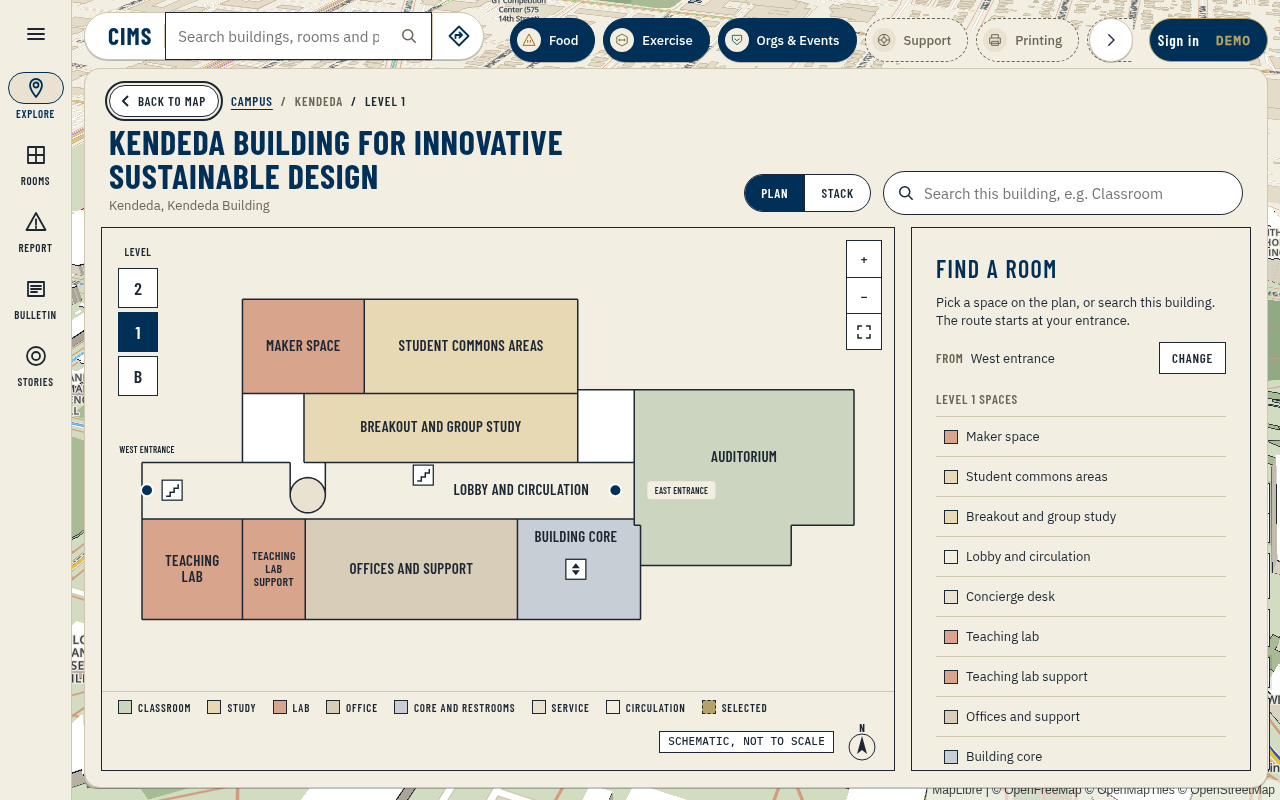
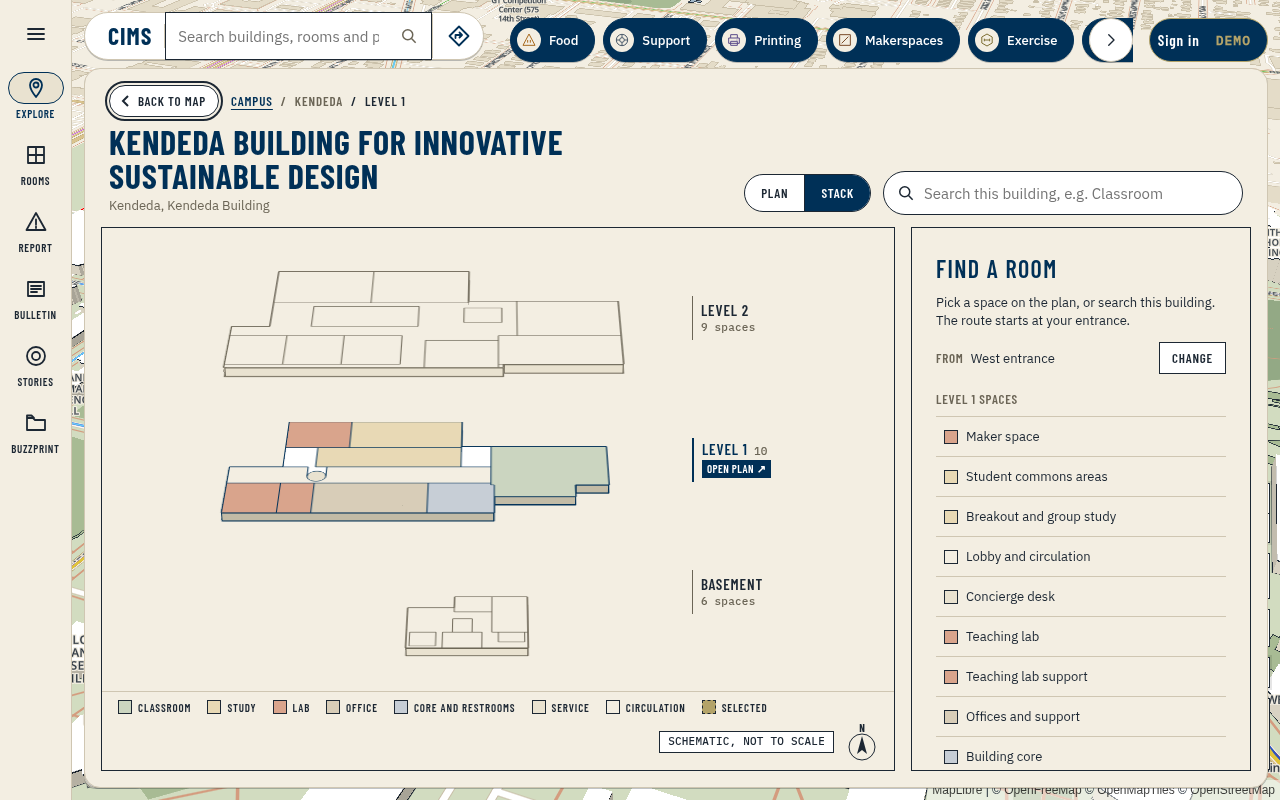
feat(indoor): stack opens first, thicker slabs, frontal view and an exploding entrance (Codex)

diff --git a/src/indoor/StackView.tsx b/src/indoor/StackView.tsx
@@ -1,6 +1,6 @@
-/** @file Exploded "stack" view (concept B): every drawn level as a plate in one CSS 3D scene, with the route and its vertical links. */
-import { useLayoutEffect, useRef, useState } from "react";
-import { drawnBounds, levelRank, planWalls, roomCategory } from "../lib/indoorPlan";
+/** @file Frontal exploded floor slabs with measured level labels, room selection and vertical route links. */
+import { useLayoutEffect, useRef, useState, type CSSProperties, type MouseEvent } from "react";
+import { drawnBounds, levelRank, planWalls, roomCategory, spaceDisplayName } from "../lib/indoorPlan";
 import type { IndoorRoute } from "./route";
 import type { IndoorBuilding, IndoorLevel, IndoorSpace } from "./types";
 import "./StackView.css";
@@ -18,43 +18,53 @@ function outlineVertices(d: string): Point[] {
   return out;
 }
 
-
 /** Shows the Plan | Stack toggle in the building header. Set to false to hide the stack view for a demo. */
 export const STACK_VIEW_ENABLED = true;
 
-/** Every available level as a plate in one CSS 3D scene; click a plate to make it the active level. */
-export default function StackView({ building, levels, activeId, selected, route, onLevel, roomCount }: {
+/** Exploded solid floor slabs; select levels or rooms and open the active level's detailed plan. */
+export default function StackView({ building, levels, activeId, selected, route, onLevel, onOpenPlan, onSelect, roomCount }: {
   building: IndoorBuilding; levels: DrawnLevel[]; activeId?: string; selected?: IndoorSpace; route?: IndoorRoute;
-  activeStep: number | null; onLevel: (id: string) => void; roomCount: (level: IndoorLevel) => number;
+  activeStep: number | null; onLevel: (id: string) => void; onOpenPlan: () => void;
+  onSelect: (space: IndoorSpace) => void; roomCount: (level: IndoorLevel) => number;
 }) {
   const stage = useRef<HTMLDivElement>(null);
   const [size, setSize] = useState({ w: 0, h: 0 });
   const [anchors, setAnchors] = useState<Record<string, Point>>({});
-  const ordered = [...levels].sort((a, b) => levelRank(a.id) - levelRank(b.id)); // bottom plate first
+  const ordered = [...levels].sort((a, b) => levelRank(a.id) - levelRank(b.id));
   const frame = drawnBounds(levels) ?? { x: 0, y: 0, w: 100, h: 100 };
   const pad = Math.max(frame.w, frame.h) * 0.04;
   const box = { x: frame.x - pad, y: frame.y - pad, w: frame.w + pad * 2, h: frame.h + pad * 2 };
-  // Plate size and spacing from the stage: wide buildings get wide plates, tall ones narrower.
+  // Turn portrait schematics within Stack only: long edges face the viewer, with no diagonal scene rotation.
+  const turned = box.h > box.w;
+  const drawingW = turned ? box.h : box.w;
+  const drawingH = turned ? box.w : box.h;
+  const orient = (p: Point): Point => turned ? { x: box.h - (p.y - box.y), y: p.x - box.x } : { x: p.x - box.x, y: p.y - box.y };
+  const drawingTransform = `${turned ? `translate(${box.h} 0) rotate(90) ` : ""}translate(${-box.x} ${-box.y})`;
+  const narrow = size.w < 500;
+  const labelW = narrow ? 94 : 122;
+  const margin = narrow ? 12 : 28;
   const n = ordered.length;
-  const plateW = Math.max(120, Math.min(size.w * 0.52, size.w - 170, (size.h * 0.95) * box.w / box.h / Math.max(1, 0.35 * n), 620));
-  const plateH = plateW * box.h / box.w;
-  const gap = Math.min(150, Math.max(50, (size.h * 0.62) / Math.max(1, n - 1)), plateH * 0.9);
+  // Reserve the aligned label column and fit the entire projected stack, including perspective and slab depth.
+  const maxGap = narrow ? 100 : n <= 3 ? 210 : 145;
+  const shelfHeight = Math.min((size.h * 0.8 - 14) / Math.max(1, n), maxGap * 0.8);
+  const plateW = Math.max(1, Math.min(760, shelfHeight / 0.53 * drawingW / drawingH, (size.w - labelW - margin * 3) * 0.92));
+  const plateH = plateW * drawingH / drawingW;
+  const gap = Math.max(1, Math.min(maxGap, (size.h * 0.88 - plateH * 0.53 - 14) / (Math.max(1, n - 1) * 0.85)));
   const z = (index: number) => (index - (n - 1) / 2) * gap;
+  const centerX = margin + (size.w - labelW - margin * 3) / 2;
+  const labelX = Math.min(size.w - labelW - margin, centerX + plateW * 0.58 + margin);
+  const thickness = narrow ? 5 : 10;
 
-  // Dashed guides only where an outline corner on one plate sits over a corner on the plate below.
-  const tolerance = Math.max(frame.w, frame.h) * 0.03;
+  // Guides connect only coincident outline corners, never an inferred building bounding box.
   const guides: { key: string; from: string; to: string }[] = [];
   ordered.slice(1).forEach((upper, k) => {
     const lower = ordered[k];
     const below = outlineVertices(lower.outline);
-    const used = new Set<number>();
     outlineVertices(upper.outline).forEach((v, i) => {
-      let best = -1, bestD = tolerance;
-      below.forEach((w, j) => { const d = Math.hypot(v.x - w.x, v.y - w.y); if (!used.has(j) && d <= bestD) { best = j; bestD = d; } });
-      if (best >= 0) { used.add(best); guides.push({ key: `${upper.id}-${i}`, from: `v:${lower.id}:${best}`, to: `v:${upper.id}:${i}` }); }
+      const match = below.findIndex((w) => Math.hypot(v.x - w.x, v.y - w.y) < 0.01);
+      if (match >= 0) guides.push({ key: `${upper.id}-${i}`, from: `v:${lower.id}:${match}`, to: `v:${upper.id}:${i}` });
     });
   });
-  // Where the route changes level: the node it leaves and the node it reaches, from the graph.
   const links: { from: string; to: string }[] = [];
   route?.nodes.forEach((node, i) => {
     const before = route.nodes[i - 1];
@@ -68,8 +78,8 @@ export default function StackView({ building, levels, activeId, selected, route,
     observer.observe(element);
     return () => observer.disconnect();
   }, []);
-  // Labels and vertical links are flat: read where the 3D anchors land on screen after layout.
-  const routeKey = route?.nodes.map((node) => node.id).join("|") ?? "";
+  // Anchors live on stationary final-position wrappers; only the slab inside animates, so links never measure a mid-animation position.
+  const routeKey = route?.nodes.map((node) => `${node.level}:${node.id}`).join("|") ?? "";
   useLayoutEffect(() => {
     const element = stage.current;
     if (!element) return;
@@ -82,54 +92,71 @@ export default function StackView({ building, levels, activeId, selected, route,
     setAnchors(next);
   }, [size.w, size.h, routeKey, levels]);
 
-  // Labels sit in one column just right of the whole stack, each at its plate's height.
-  const cornerXs = Object.entries(anchors).filter(([key]) => key.startsWith("corner:")).map(([, p]) => p.x);
-  const labelX = Math.min(Math.max(0, size.w - 130), (cornerXs.length ? Math.max(...cornerXs) : size.w / 2) + 20);
-  const pct = (p: Point) => ({ left: `${((p.x - box.x) / box.w) * 100}%`, top: `${((p.y - box.y) / box.h) * 100}%` });
+  const pct = (p: Point) => { const q = orient(p); return { left: `${q.x / drawingW * 100}%`, top: `${q.y / drawingH * 100}%` }; };
 
-  return <div ref={stage} className="stack" role="group" aria-label={`${building.title}, all levels stacked`}>
-    <div className="stack__scene" style={{ width: plateW, height: plateH }}>
+  return <div ref={stage} className="stack" data-compact={size.h < 260 || undefined} role="group" aria-label={`${building.title}, all levels stacked`}>
+    {size.w > 0 && <div className="stack__scene" style={{ width: plateW, height: plateH, left: centerX }}>
       {ordered.map((level, index) => {
         const active = level.id === activeId;
         const legs = route?.legs.filter((leg) => leg.level === level.id) ?? [];
         const routeNodes = route?.nodes.filter((node) => node.level === level.id) ?? [];
-        return <div key={level.id} className="stack__plate" data-active={active || undefined} style={{ transform: `translateZ(${z(index)}px)` }}
+        return <div key={level.id} className="stack__plate" data-active={active || undefined}
+          style={{ transform: `translateZ(${z(index)}px)`, "--plate-z": `${z(index)}px`, "--slab-depth": `${thickness}px`, "--explode-delay": `${index * 40}ms` } as CSSProperties}
           role="button" tabIndex={0} aria-pressed={active} aria-label={`${level.name}, ${roomCount(level)} spaces${legs.length ? ", route on this level" : ""}`}
-          onClick={() => onLevel(level.id)} onKeyDown={(event) => { if (event.key === "Enter" || event.key === " ") { event.preventDefault(); onLevel(level.id); } }}>
-          <svg viewBox={`${box.x} ${box.y} ${box.w} ${box.h}`} preserveAspectRatio="none" aria-hidden="true">
-            <path d={level.outline} className="stack__floor" />
-            {level.spaces.map((space) => {
-              const shape = space.shape;
-              const cls = `cims-room cims-room--${roomCategory(space.type)}${selected?.id === space.id ? " cims-room--selected" : ""}`;
-              return shape.kind === "rect" ? <rect key={space.id} className={cls} x={shape.x} y={shape.y} width={shape.w} height={shape.h} />
-                : shape.kind === "circle" ? <circle key={space.id} className={cls} cx={shape.cx} cy={shape.cy} r={shape.r} />
-                : <polygon key={space.id} className={cls} points={shape.points} />;
+          onClick={() => onLevel(level.id)} onKeyDown={(event) => { if (event.target === event.currentTarget && (event.key === "Enter" || event.key === " ")) { event.preventDefault(); onLevel(level.id); } }}>
+          <div className="stack__slab">
+            <svg className="stack__underside" viewBox={`0 0 ${drawingW} ${drawingH}`} preserveAspectRatio="none" aria-hidden="true">
+              <g transform={drawingTransform}><path d={level.outline} /></g>
+            </svg>
+            {(level.outline.match(/M[^Z]+Z/gi) ?? []).flatMap((ring, ringIndex) => {
+              const vertices = outlineVertices(ring).map(orient);
+              return vertices.map((v, i) => {
+                const next = vertices[(i + 1) % vertices.length];
+                const dx = (next.x - v.x) / drawingW * plateW;
+                const dy = (next.y - v.y) / drawingH * plateH;
+                return <span key={`${ringIndex}-${i}`} className="stack__edge" aria-hidden="true" style={{ left: `${v.x / drawingW * 100}%`, top: `${v.y / drawingH * 100}%`, width: Math.hypot(dx, dy), transform: `rotateZ(${Math.atan2(dy, dx)}rad) rotateX(-90deg)` }} />;
+              });
             })}
-            <path d={planWalls(level)} className="stack__outline" />
-            {legs.map((leg, i) => <polyline key={i} className="stack__route" points={leg.points.map((p) => p.join(",")).join(" ")} />)}
-          </svg>
-          {/* anchors: right edge for the level label, and every route node for the vertical links */}
+            <svg className="stack__top" viewBox={`0 0 ${drawingW} ${drawingH}`} preserveAspectRatio="none" aria-hidden="true">
+              <g transform={drawingTransform}>
+                <path d={level.outline} className="stack__floor" />
+                {level.spaces.map((space) => {
+                  const shape = space.shape;
+                  const cls = `cims-room cims-room--${roomCategory(space.type)}${selected?.id === space.id ? " cims-room--selected" : ""}`;
+                  const props = { className: cls, onClick: (event: MouseEvent) => { event.stopPropagation(); if (active) onSelect(space); else onLevel(level.id); } };
+                  return shape.kind === "rect" ? <rect key={space.id} {...props} x={shape.x} y={shape.y} width={shape.w} height={shape.h}><title>{spaceDisplayName(space)}</title></rect>
+                    : shape.kind === "circle" ? <circle key={space.id} {...props} cx={shape.cx} cy={shape.cy} r={shape.r}><title>{spaceDisplayName(space)}</title></circle>
+                    : <polygon key={space.id} {...props} points={shape.points}><title>{spaceDisplayName(space)}</title></polygon>;
+                })}
+                <path d={planWalls(level)} className="stack__outline" />
+                {legs.map((leg, i) => <polyline key={i} className="stack__route" points={leg.points.map((p) => p.join(",")).join(" ")} />)}
+              </g>
+            </svg>
+          </div>
           <span className="stack__anchor" data-anchor={`label:${level.id}`} style={{ left: "50%", top: "50%" }} />
-          {[[0, 0], [100, 0], [100, 100], [0, 100]].map(([left, top]) => <span key={`${left}-${top}`} className="stack__anchor" data-anchor={`corner:${level.id}:${left}-${top}`} style={{ left: `${left}%`, top: `${top}%` }} />)}
-          {/* outline corners, for the dashed guides between plates */}
           {outlineVertices(level.outline).map((v, i) => <span key={`v-${i}`} className="stack__anchor" data-anchor={`v:${level.id}:${i}`} style={pct(v)} />)}
           {routeNodes.map((node) => <span key={node.id} className="stack__anchor" data-anchor={`${level.id}:${node.id}`} style={pct(node)} />)}
         </div>;
       })}
-    </div>
-    <svg className="stack__overlay" width={size.w} height={size.h} aria-hidden="true">
-      {guides.map(({ key, from, to }) => anchors[from] && anchors[to]
-        ? <line key={key} x1={anchors[from].x} y1={anchors[from].y} x2={anchors[to].x} y2={anchors[to].y} className="stack__guide" /> : null)}
-      {links.map(({ from, to }) => anchors[from] && anchors[to] && <g key={`${from}-${to}`}>
-        <line x1={anchors[from].x} y1={anchors[from].y} x2={anchors[to].x} y2={anchors[to].y} className="stack__link" />
-        <circle cx={anchors[from].x} cy={anchors[from].y} r="4" className="stack__link-end" />
-        <circle cx={anchors[to].x} cy={anchors[to].y} r="4" className="stack__link-end" />
-      </g>)}
-    </svg>
-    {ordered.map((level) => anchors[`label:${level.id}`] && <button key={level.id} type="button" tabIndex={-1} className="stack__label"
-      data-active={level.id === activeId || undefined} style={{ left: labelX, top: anchors[`label:${level.id}`].y }}
-      onClick={() => onLevel(level.id)}>
-      <span className="cims-caps">{level.name}</span><small className="cims-mono">{roomCount(level)} spaces</small>
-    </button>)}
+    </div>}
+    {Object.keys(anchors).length > 0 && <>
+      <svg className="stack__overlay stack__annotations" width={size.w} height={size.h} aria-hidden="true">
+        {guides.map(({ key, from, to }) => anchors[from] && anchors[to]
+          ? <line key={key} x1={anchors[from].x} y1={anchors[from].y} x2={anchors[to].x} y2={anchors[to].y} className="stack__guide" /> : null)}
+        {links.map(({ from, to }) => anchors[from] && anchors[to] && <g key={`${from}-${to}`}>
+          <line x1={anchors[from].x} y1={anchors[from].y} x2={anchors[to].x} y2={anchors[to].y} className="stack__link" />
+          <circle cx={anchors[from].x} cy={anchors[from].y} r="4" className="stack__link-end" />
+          <circle cx={anchors[to].x} cy={anchors[to].y} r="4" className="stack__link-end" />
+        </g>)}
+      </svg>
+      {ordered.map((level) => anchors[`label:${level.id}`] && <div key={level.id} className="stack__label stack__annotations"
+        data-active={level.id === activeId || undefined} style={{ left: labelX, top: anchors[`label:${level.id}`].y, width: labelW }}>
+        <button type="button" className="stack__level" aria-pressed={level.id === activeId} aria-label={`${level.name}, ${roomCount(level)} spaces${level.id === activeId ? ", Open plan" : ""}`}
+          onClick={() => level.id === activeId ? onOpenPlan() : onLevel(level.id)}>
+          <span className="stack__label-heading"><span className="cims-caps">{level.name}</span>{level.id === activeId && <small className="cims-mono" aria-hidden="true">{roomCount(level)}</small>}</span>
+          {level.id === activeId ? <span className="stack__open-plan">Open plan <span aria-hidden="true">↗</span></span> : <small className="cims-mono">{roomCount(level)} spaces</small>}
+        </button>
+      </div>)}
+    </>}
   </div>;
 }

diff --git a/src/indoor/StackView.css b/src/indoor/StackView.css
@@ -1,45 +1,64 @@
-/** @file Stack view: CSS 3D plates (perspective, tilt, translateZ per level), flat labels and dashed vertical route links. */
-.stack { position: absolute; inset: 0; overflow: hidden; perspective: 1800px; perspective-origin: 50% 40%; }
+/** @file Frontal paper floor slabs, responsive spacing and a single staggered opening animation with reduced-motion support. */
+.stack { position: absolute; inset: 0; overflow: hidden; perspective: 2400px; perspective-origin: 50% 50%; }
 .stack__scene {
-  position: absolute; left: 50%; top: 50%; transform-style: preserve-3d;
-  transform: translate(-50%, -50%) rotateX(55deg) rotateZ(-35deg);
+  position: absolute; top: 50%; transform-style: preserve-3d;
+  transform: translate(-50%, -50%) rotateX(58deg) rotateZ(0deg);
 }
-/* Only a plate's drawn floor takes clicks, so a plate above never steals the click meant for one below. */
 .stack__plate { position: absolute; inset: 0; transform-style: preserve-3d; cursor: pointer; outline: none; pointer-events: none; }
-.stack__floor { pointer-events: auto; }
-.stack__plate svg { display: block; width: 100%; height: 100%; overflow: visible; }
-.stack__floor { fill: var(--paper); stroke: none; }
-.stack__outline { fill: none; stroke: var(--ink); stroke-width: 1.5; vector-effect: non-scaling-stroke; }
-.stack__plate .cims-room { stroke: none; animation: none; }
-/* other levels: thin ink outlines over light paper */
-/* see-through so the active plate and the route below stay visible */
-.stack__plate:not([data-active]) .stack__floor { fill: var(--paper); fill-opacity: 0.55; }
+.stack__slab { position: absolute; inset: 0; transform-style: preserve-3d; animation: stack-explode 560ms cubic-bezier(.16, 1, .3, 1) var(--explode-delay) backwards; }
+.stack__plate svg { position: absolute; inset: 0; display: block; width: 100%; height: 100%; overflow: visible; }
+.stack__underside { transform: translateZ(calc(-1 * var(--slab-depth))); }
+.stack__underside path { fill: var(--paper-2); stroke: var(--ink-muted); stroke-width: 1; vector-effect: non-scaling-stroke; }
+.stack__edge { position: absolute; display: block; height: var(--slab-depth); transform-origin: 0 0; background: var(--paper-2); border: 1px solid var(--ink-muted); box-sizing: border-box; }
+.stack__plate[data-active] .stack__edge { background: #c2bba6; border-color: var(--navy); }
+.stack__plate[data-active] .stack__underside path { fill: #c2bba6; stroke: var(--navy); }
+.stack__floor { pointer-events: auto; fill: var(--paper); stroke: var(--ink-muted); stroke-width: 1; vector-effect: non-scaling-stroke; }
+.stack__outline { fill: none; stroke: var(--ink-muted); stroke-width: 1; vector-effect: non-scaling-stroke; pointer-events: none; }
+.stack__plate .cims-room { stroke: none; animation: none; pointer-events: all; }
+.stack__plate .cims-room--void { pointer-events: none; }
 .stack__plate:not([data-active]) .cims-room { fill: none; }
-.stack__plate:not([data-active]) .cims-room--void { fill: none; }
 .stack__plate:not([data-active]) .cims-room--selected { fill: var(--room-selected); }
-.stack__plate[data-active] .floor-plan__floor, .stack__plate[data-active] .stack__floor { fill: var(--white); }
+.stack__plate[data-active] .stack__floor { fill: var(--white); stroke: var(--navy); }
+.stack__plate[data-active] .stack__outline { stroke: var(--navy); }
 .stack__plate[data-active] .cims-room--service { fill: var(--paper-2); }
-.stack__plate[data-active] .cims-room--utility { fill: var(--paper); stroke-dasharray: 4 3; }
+.stack__plate[data-active] .cims-room--utility { fill: var(--paper); }
 .stack__plate[data-active] .cims-room--outdoor { fill: var(--map-campus); }
-.stack__plate[data-active] .cims-room--void { fill: none; stroke-dasharray: 4 3; }
+.stack__plate[data-active] .cims-room--void { fill: none; }
 .stack__plate .cims-room--selected { fill: var(--room-selected); }
-.stack__plate:hover .stack__outline, .stack__plate:focus-visible .stack__outline { stroke: var(--navy); stroke-width: 3; }
-.stack__route { fill: none; stroke: var(--route); stroke-width: 2.5; stroke-dasharray: 8 5; stroke-linecap: round; stroke-linejoin: round; vector-effect: non-scaling-stroke; }
+.stack__plate:focus-visible .stack__floor { stroke: var(--navy); stroke-width: 2; }
+.stack__route { fill: none; stroke: var(--route); stroke-width: 2.5; stroke-dasharray: 8 5; stroke-linecap: round; stroke-linejoin: round; vector-effect: non-scaling-stroke; pointer-events: none; }
 .stack__anchor { position: absolute; width: 0; height: 0; pointer-events: none; }
-
 .stack__overlay { position: absolute; inset: 0; pointer-events: none; overflow: visible; }
 .stack__link { stroke: var(--route); stroke-width: 2.5; stroke-dasharray: 6 5; }
-.stack__link-end { fill: var(--route); stroke: var(--white); stroke-width: 1.5; }
-
-.stack__label {
-  position: absolute; z-index: 1; transform: translateY(-50%); display: grid; justify-items: start; gap: 0;
-  padding: var(--s1) var(--s2); border: 0; border-left: 2px solid var(--ink); background: none; color: var(--ink); cursor: pointer; text-align: left;
-}
+.stack__link-end { fill: var(--route); stroke: var(--white); stroke-width: 1; }
+.stack__guide { stroke: var(--ink-muted); stroke-width: 1; stroke-dasharray: 3 5; opacity: 0.45; }
+.stack__annotations { animation: stack-annotate 160ms ease-out 740ms both; }
+.stack__label { position: absolute; z-index: 1; transform: translateY(-50%); padding-left: 8px; border-left: 1px solid var(--ink-muted); color: var(--ink); }
+.stack__level { display: grid; gap: 2px; justify-items: start; width: 100%; min-height: 44px; align-content: center; padding: 2px 0; border: 0; background: none; color: inherit; cursor: pointer; text-align: left; }
 .stack__label .cims-caps { font-size: var(--fs-md); line-height: 1.1; }
+.stack__label-heading { display: flex; align-items: baseline; gap: 6px; }
 .stack__label small { font-size: var(--fs-xs); color: var(--ink-muted); }
-.stack__label[data-active] { border-left-color: var(--navy); }
-.stack__label[data-active] .cims-caps { color: var(--navy); }
-/* No animated transitions here at all, so prefers-reduced-motion needs nothing extra; keep it that way. */
-
-/* Dashed guides between outline corners that line up on consecutive plates. */
-.stack__guide { stroke: var(--ink); stroke-width: 1.25; stroke-dasharray: 4 5; opacity: 0.7; }
+.stack__label[data-active] { border-left: 2px solid var(--navy); color: var(--navy); }
+.stack__open-plan { display: inline-block; padding: 2px 5px; background: var(--navy); color: var(--white); font: 600 11px/1.2 var(--font-display); text-transform: uppercase; letter-spacing: .04em; white-space: nowrap; }
+.stack__level:focus-visible, .stack__open-plan:focus-visible { outline: 2px solid var(--navy); outline-offset: 3px; }
+@keyframes stack-explode {
+  from { transform: translateZ(calc(-1 * var(--plate-z))); opacity: .6; }
+  to { transform: translateZ(0); opacity: 1; }
+}
+@keyframes stack-annotate { from { opacity: 0; } to { opacity: 1; } }
+@media (max-width: 767px) {
+  .stack__label { padding-left: 6px; }
+  .stack__label .cims-caps { font-size: 13px; }
+  .stack__label-heading { display: flex; align-items: baseline; gap: 6px; }
+.stack__label small { font-size: 10px; }
+  .stack__level { min-height: 36px; }
+  .stack__open-plan { padding: 2px 4px; font-size: 10px; }
+}
+/* A routed room's phone sheet leaves a short canvas; the level pills above remain the full-size level controls. */
+.stack[data-compact] .stack__level { min-height: 24px; padding: 0; gap: 0; }
+.stack[data-compact] .stack__label .cims-caps { font-size: 12px; line-height: 1.1; }
+.stack[data-compact] .stack__label small { font-size: 9px; line-height: 1; }
+.stack[data-compact] .stack__open-plan { padding: 1px 3px; font-size: 9px; line-height: 1; }
+@media (prefers-reduced-motion: reduce) {
+  .stack__slab, .stack__annotations { animation: none; }
+}

diff --git a/src/indoor/BuildingView.tsx b/src/indoor/BuildingView.tsx
@@ -79,8 +79,8 @@ function BuildingScreen({ building, initialRoom, initialFact }: { building: Indo
   const [pickStart, setPickStart] = useState(false);
   const [changeStart, setChangeStart] = useState(false);
   const [activeStep, setActiveStep] = useState<number | null>(null);
-  // ?indoor=stack opens straight in the stack view (demo links and screenshots).
-  const [view, setView] = useState<"plan" | "stack">(() => STACK_VIEW_ENABLED && new URLSearchParams(location.search).get("indoor") === "stack" ? "stack" : "plan");
+  // Stack opens first on every screen; an explicit ?indoor=plan still opens the detailed plan.
+  const [view, setView] = useState<"plan" | "stack">(() => STACK_VIEW_ENABLED && building.levels.some((item) => item.available) && new URLSearchParams(location.search).get("indoor") !== "plan" ? "stack" : "plan");
   const [sheet, setSheet] = useState<"peek" | "open">(initialRoom || initialFact ? "open" : "peek");
   const [walking, setWalking] = useState(false); // phone: step-by-step route mode
   const [facts, setFacts] = useState(() => loadedBuildings()?.byId.get(building.building_id));
@@ -236,9 +236,9 @@ function BuildingScreen({ building, initialRoom, initialFact }: { building: Indo
     aria-pressed={item.id === levelId} disabled={!item.available} title={item.note ?? item.name}
     onClick={() => { setLevelId(item.id); setActiveStep(null); }}>{item.label}</button>);
 
-  const plan = view === "stack" && STACK_VIEW_ENABLED
+  const plan = view === "stack" && STACK_VIEW_ENABLED && drawnLevels.length > 0
     ? <StackView building={building} levels={drawnLevels} activeId={levelId} selected={selected} route={route} activeStep={activeStep}
-      onLevel={(id) => setLevelId(id)} roomCount={roomCount} />
+      onLevel={(id) => setLevelId(id)} onOpenPlan={() => setView("plan")} onSelect={chooseSpace} roomCount={roomCount} />
     : level?.available ? <FloorPlan key={level.id} level={level} graph={graph} frame={frame} selected={selected} planRoute={planRoute(level.id)} onSelect={chooseSpace} />
       : <div className="building-view__no-plan cims-empty"><p>{level?.note ?? "No floor plan for this level yet."}</p></div>;
 

diff --git a/docs/FUNCTIONS.md b/docs/FUNCTIONS.md
@@ -258,7 +258,7 @@ This file is regenerated automatically. Edit only the text above the AUTO marker
 - `BuildingView()` [src/indoor/BuildingView.tsx:34](../src/indoor/BuildingView.tsx#L34): Opens registered buildings and resolves room selections straight into a routed building screen.
 - `FloorPlan(…)` [src/indoor/FloorPlan.tsx:132](../src/indoor/FloorPlan.tsx#L132): Renders one available level with controls and brings the route or the selected space into view.
 - `RoomSearch({ building, onChoose, onChooseRoom })` [src/indoor/RoomSearch.tsx:6](../src/indoor/RoomSearch.tsx#L6): Browses rooms by level on focus and chooses either a schematic space or published room fact.
-- `StackView(…)` [src/indoor/StackView.tsx:26](../src/indoor/StackView.tsx#L26): Every available level as a plate in one CSS 3D scene; click a plate to make it the active level.
+- `StackView(…)` [src/indoor/StackView.tsx:25](../src/indoor/StackView.tsx#L25): Exploded solid floor slabs; select levels or rooms and open the active level's detailed plan.
 - `AccountChip()` [src/panels/account/AccountChip.tsx:8](../src/panels/account/AccountChip.tsx#L8): Shows sign-in or the selected demo persona with a small sign-out disclosure.
 - `SignInDialog()` [src/panels/account/SignInDialog.tsx:10](../src/panels/account/SignInDialog.tsx#L10): Mounts a fresh theater flow whenever the demo sign-in dialog opens.
 - `BuildingCard()` [src/panels/building-card/BuildingCard.tsx:14](../src/panels/building-card/BuildingCard.tsx#L14): Shows the selected building (kind "building"), or nothing when something else is selected.
@@ -321,7 +321,7 @@ This file is regenerated automatically. Edit only the text above the AUTO marker
 - `BASEMAP_TILEJSON` [src/config.ts:21](../src/config.ts#L21): Vector basemap (ADR-0006 step 2): OpenFreeMap, free and keyless, OpenMapTiles schema.
 - `TILE_ATTRIBUTION` [src/config.ts:23](../src/config.ts#L23): Attribution OpenFreeMap and OpenStreetMap require next to the map.
 - `CORRECTION_URL` [src/config.ts:26](../src/config.ts#L26): Base URL for prefilled place correction issues.
-- `STACK_VIEW_ENABLED` [src/indoor/StackView.tsx:23](../src/indoor/StackView.tsx#L23): Shows the Plan | Stack toggle in the building header. Set to false to hide the stack view for a demo.
+- `STACK_VIEW_ENABLED` [src/indoor/StackView.tsx:22](../src/indoor/StackView.tsx#L22): Shows the Plan | Stack toggle in the building header. Set to false to hide the stack view for a demo.
 - `bookableRoomsFor(rooms, amenitiesById, buildingId)` [src/indoor/availability.ts:24](../src/indoor/availability.ts#L24): Every bookable room in one building (its plain space/room name as the label), sorted alphabetically.
 - `favoriteRoomsFrom(rooms, amenitiesById, roomIds)` [src/indoor/availability.ts:47](../src/indoor/availability.ts#L47): Bookable rooms in `roomIds` across every building, labeled "Building · Room N" using each
 - `crossBuildingBookableRooms(rooms, amenitiesById)` [src/indoor/availability.ts:65](../src/indoor/availability.ts#L65): Every bookable room across every building, labeled "Building · Room" exactly like

diff --git a/src/indoor/INDEX.md b/src/indoor/INDEX.md
@@ -12,8 +12,8 @@ Building screen, vector schematic renderer and indoor contracts shared by lanes 
 - [`FloorPlan.css`](FloorPlan.css): * @file Vector plan canvas: flat typed fills, ink walls, fitted labels, connector glyphs, numbered dashed rou…
 - [`FloorPlan.tsx`](FloorPlan.tsx): Crisp SVG schematic: typed room fills, fitted labels, connector glyphs, numbered route, keyboard selection, p… · exports `FloorPlan`
 - [`RoomSearch.tsx`](RoomSearch.tsx): One keyboard accessible room picker across every available building level. · exports `RoomSearch`
-- [`StackView.css`](StackView.css): * @file Stack view: CSS 3D plates (perspective, tilt, translateZ per level), flat labels and dashed vertical…
-- [`StackView.tsx`](StackView.tsx): Exploded "stack" view (concept B): every drawn level as a plate in one CSS 3D scene, with the route and its v… · exports `STACK_VIEW_ENABLED`, `StackView`
+- [`StackView.css`](StackView.css): * @file Frontal paper floor slabs, responsive spacing and a single staggered opening animation with reduced-m…
+- [`StackView.tsx`](StackView.tsx): Frontal exploded floor slabs with measured level labels, room selection and vertical route links. · exports `STACK_VIEW_ENABLED`, `StackView`
 - [`availability.ts`](availability.ts): Pure room-finder queries (F-11) and campus-local expansion of fictional weekly demo slots. · exports `bookableRoomsFor`, `favoriteRoomsFrom`, `crossBuildingBookableRooms`, `isRoomFree`, `findFreeRooms`, `freeUntil`, `nowWindow`, `campusTimeToday`, `expandDemoSlots`
 - [`handoff.ts`](handoff.ts): Hands a room from the indoor screen to the shell's existing reservations panel ("Book this room"). · exports `requestBooking`, `peekBookingRequest`, `clearBookingRequest`, `useBookingRequestSeq`
 - [`open.ts`](open.ts): Which indoor building screen is open: picking a building shows a preview card first, this opens its full scre… · exports `openIndoor`, `closeIndoor`, `useOpenIndoor`
